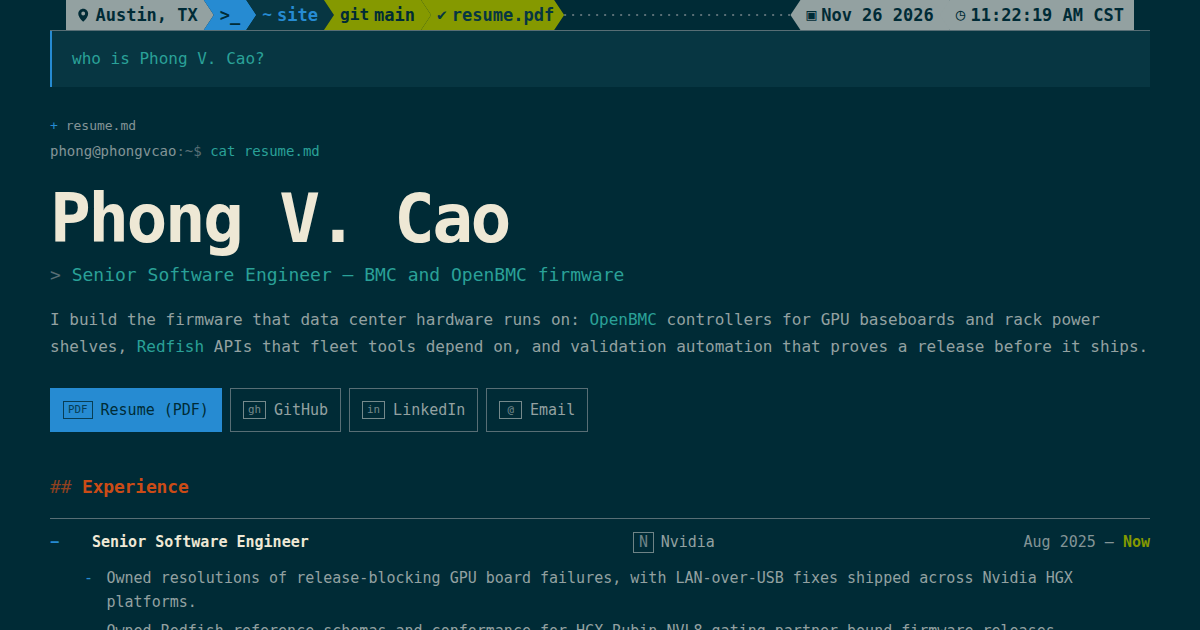
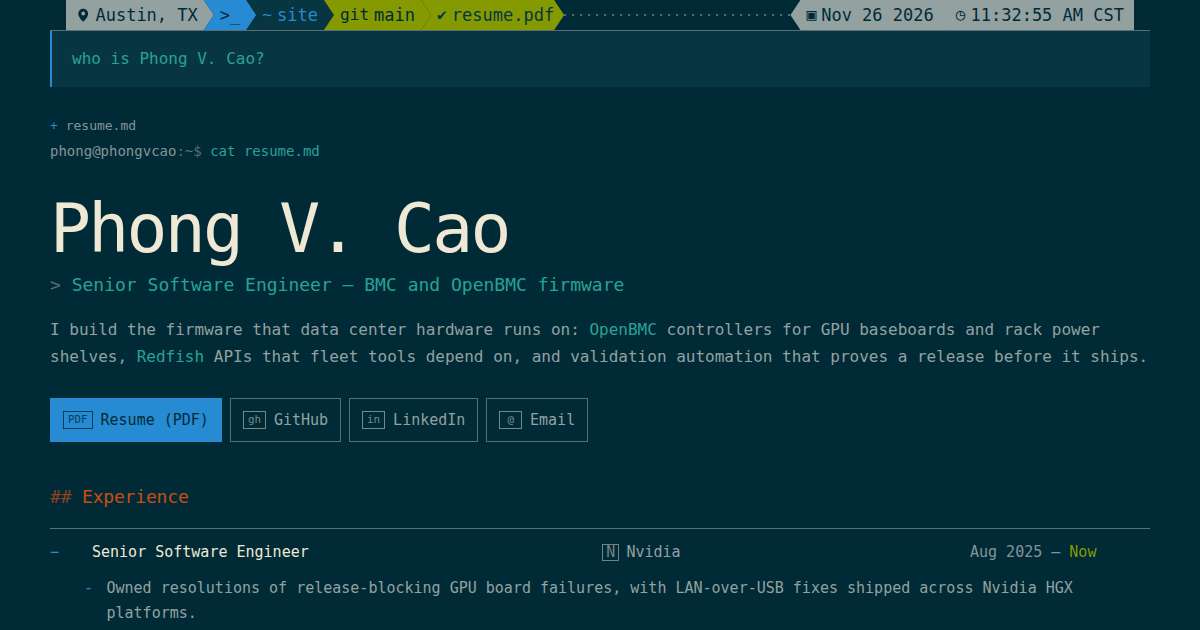
site: plain skills, block cursor, aligned rows, smooth scanner
- Skills lists plain text, no links and no new tabs
- Model line drops the provider name
- Cursor is a full-cell block sized in em, not the half-block glyph
- Experience rows share a fixed date column, so badges and dates line up
- Scanner glides over 3.2 s with short holds instead of 80 ms cell jumps
- Page renders in DejaVuSansM Nerd Font, with 20 KB woff2 subsets for machines without it

diff --git a/index.html b/index.html
@@ -103,7 +103,7 @@
       <p class="tool-line"><span aria-hidden="true">+ </span>resume.md</p>
       <p class="command-line"><span class="host">phong@phongvcao</span><span class="dim">:~$</span> <span class="cmd">cat resume.md</span></p>
 
-      <h1>Phong V. Cao<span class="cursor" aria-hidden="true">▌</span></h1>
+      <h1>Phong V. Cao<span class="cursor" aria-hidden="true"></span></h1>
       <p class="role"><span class="mark" aria-hidden="true">&gt; </span>Senior Software Engineer — BMC and OpenBMC firmware</p>
       <p class="intro">I build the firmware that data center hardware runs on: <a class="term-link" href="https://openbmc.org/" target="_blank" rel="noopener"><code>OpenBMC</code></a> controllers for GPU baseboards and rack power shelves, <a class="term-link" href="https://www.dmtf.org/standards/redfish" target="_blank" rel="noopener"><code>Redfish</code></a> APIs that fleet tools depend on, and validation automation that proves a release before it ships.</p>
 
@@ -265,23 +265,23 @@
           </div>
           <div class="skill-row">
             <dt>Firmware</dt>
-            <dd><a class="term-link" href="https://openbmc.org/" target="_blank" rel="noopener"><code>OpenBMC</code></a> (<code>bmcweb</code>, <code>entity-manager</code>, <code>sdbusplus</code>), Embedded Linux, Linux Drivers, <code>U-Boot</code>, <code>Yocto</code>, <code>BitBake</code></dd>
+            <dd><code>OpenBMC</code> (<code>bmcweb</code>, <code>entity-manager</code>, <code>sdbusplus</code>), Embedded Linux, Linux Drivers, <code>U-Boot</code>, <code>Yocto</code>, <code>BitBake</code></dd>
           </div>
           <div class="skill-row">
             <dt>Protocols</dt>
-            <dd><a class="term-link" href="https://www.dmtf.org/standards/redfish" target="_blank" rel="noopener">DMTF Redfish</a> (CSDL, JSON Schema, Service Validator), <code>MCTP</code>, <code>PLDM</code>, <code>SPDM</code>, <code>IPMI</code>, <code>USB</code>, <code>PCIe</code>, <code>I2C</code></dd>
+            <dd>DMTF Redfish (CSDL, JSON Schema, Service Validator), <code>MCTP</code>, <code>PLDM</code>, <code>SPDM</code>, <code>IPMI</code>, <code>USB</code>, <code>PCIe</code>, <code>I2C</code></dd>
           </div>
           <div class="skill-row">
             <dt>Validation</dt>
-            <dd><code>pytest</code>, <code>Playwright</code>, <a class="term-link" href="https://www.qemu.org/" target="_blank" rel="noopener"><code>QEMU</code></a> (ASPEED AST2600), board bring-up, DMTF validator runs, soak tests</dd>
+            <dd><code>pytest</code>, <code>Playwright</code>, <code>QEMU</code> (ASPEED AST2600), board bring-up, DMTF validator runs, soak tests</dd>
           </div>
           <div class="skill-row">
             <dt>Backend</dt>
-            <dd><a class="term-link" href="https://fastapi.tiangolo.com/" target="_blank" rel="noopener"><code>FastAPI</code></a>, <a class="term-link" href="https://www.docker.com/" target="_blank" rel="noopener"><code>Docker</code></a>, <code>Jenkins</code>, <code>GitLab</code>, <a class="term-link" href="https://kafka.apache.org/" target="_blank" rel="noopener"><code>Kafka</code></a>, <a class="term-link" href="https://cloud.google.com/spanner" target="_blank" rel="noopener"><code>Spanner</code></a>, <a class="term-link" href="https://kubernetes.io/" target="_blank" rel="noopener"><code>Kubernetes</code></a>, Claude, Codex, DeepSeek, AI Agents</dd>
+            <dd><code>FastAPI</code>, <code>Docker</code>, <code>Jenkins</code>, <code>GitLab</code>, <code>Kafka</code>, <code>Spanner</code>, <code>Kubernetes</code>, Claude, Codex, DeepSeek, AI Agents</dd>
           </div>
           <div class="skill-row">
             <dt>Hardware</dt>
-            <dd><a class="term-link" href="https://www.nvidia.com/en-us/data-center/hgx/" target="_blank" rel="noopener">Nvidia HGX GPU Baseboards</a>, Rack Power Shelf, ASPEED AST2600 BMC, Broadcom Tomahawk/Trident ASICs</dd>
+            <dd>Nvidia HGX GPU Baseboards, Rack Power Shelf, ASPEED AST2600 BMC, Broadcom Tomahawk/Trident ASICs</dd>
           </div>
         </dl>
       </section>
@@ -306,9 +306,9 @@
       <div class="prompt-box">
         <a class="prompt-link" href="mailto:phongvcao@gmail.com">
           <span>phongvcao@gmail.com</span>
-          <span class="cursor cursor-small" aria-hidden="true">▌</span>
+          <span class="cursor cursor-small" aria-hidden="true"></span>
         </a>
-        <p class="prompt-meta"><span class="model-agent">Ultracode</span> <span class="model-auto">auto</span> <span class="model-dim">·</span> <span class="model-name">DeepSeek V4.1 Flash 1017 (Ollama)</span> <span class="model-provider">Ollama Cloud</span> <span class="model-dim">·</span> <span class="model-max">max</span></p>
+        <p class="prompt-meta"><span class="model-agent">Ultracode</span> <span class="model-auto">auto</span> <span class="model-dim">·</span> <span class="model-name">DeepSeek V4.1 Flash 1017</span> <span class="model-dim">·</span> <span class="model-max">max</span></p>
       </div>
       <div class="prompt-status" aria-label="Session status">
         <span class="status-left"><span class="status-bar" aria-hidden="true"><span class="scan scan-fwd"></span><span class="scan scan-back"></span></span><span class="status-hint"><span class="status-key">esc</span> interrupt</span></span>

diff --git a/styles.css b/styles.css
@@ -1,3 +1,21 @@
+@font-face {
+  font-family: "Site Mono";
+  font-style: normal;
+  font-weight: 400;
+  font-display: swap;
+  src: local("DejaVuSansM Nerd Font"), local("DejaVuSansMono Nerd Font"),
+    url("assets/dejavu-sans-mono-regular.woff2") format("woff2");
+}
+
+@font-face {
+  font-family: "Site Mono";
+  font-style: normal;
+  font-weight: 700;
+  font-display: swap;
+  src: local("DejaVuSansM Nerd Font"), local("DejaVuSansMono Nerd Font"),
+    url("assets/dejavu-sans-mono-bold.woff2") format("woff2");
+}
+
 :root {
   --base03: #002b36;
   --base02: #073642;
@@ -33,7 +51,7 @@
   --prompt-h: 92px;
   --status-h: 29px;
 
-  --mono: "DejaVuSansMono Nerd Font", "DejaVu Sans Mono Nerd Font", "DejaVu Sans Mono", ui-monospace, SFMono-Regular, "SF Mono", Menlo, Monaco, Consolas, "Liberation Mono", "Courier New", monospace;
+  --mono: "Site Mono", "DejaVuSansM Nerd Font", "DejaVuSansM Nerd Font Mono", "DejaVuSansMono Nerd Font", "DejaVuSansMono Nerd Font Mono", "DejaVu Sans Mono", ui-monospace, SFMono-Regular, "SF Mono", Menlo, Monaco, Consolas, "Liberation Mono", "Courier New", monospace;
 }
 
 *,
@@ -136,8 +154,11 @@ h1 {
 
 .cursor {
   display: inline-block;
-  margin-left: 0.08em;
-  color: inherit;
+  width: 0.62em;
+  height: 1.15em;
+  margin-left: 0.06em;
+  vertical-align: -0.15em;
+  background: currentColor;
   animation: blink 1.15s steps(2, start) infinite;
 }
 
@@ -327,8 +348,8 @@ code {
   display: inline-flex;
   align-items: center;
   justify-content: center;
-  width: 1.35em;
-  height: 1.35em;
+  width: 1.15em;
+  height: 1.15em;
   border: 1px solid currentColor;
   font-size: 1em;
   line-height: 1;
@@ -387,7 +408,7 @@ code {
 
 .exp-summary {
   display: grid;
-  grid-template-columns: 2em minmax(0, 1.4fr) minmax(0, 1fr) auto;
+  grid-template-columns: 2em minmax(0, 1.4fr) minmax(0, 1fr) 12em;
   align-items: baseline;
   gap: 12px;
   padding: 11px 0;
@@ -429,7 +450,7 @@ code {
 
 .exp-company {
   display: inline-flex;
-  align-items: baseline;
+  align-items: center;
   gap: 7px;
   color: var(--base1);
 }
@@ -702,8 +723,8 @@ code {
   height: 1em;
   margin-right: 1ch;
   overflow: hidden;
-  background-image: linear-gradient(90deg, rgb(38 139 210 / 0.5) 0 0.62ch, transparent 0.62ch 1ch);
-  background-size: 1ch 0.62em;
+  background-image: radial-gradient(circle, rgb(38 139 210 / 0.45) 0.07em, transparent 0.075em);
+  background-size: 1ch 1em;
   background-position: 0 50%;
   background-repeat: repeat-x;
 }
@@ -714,11 +735,11 @@ code {
   background-repeat: no-repeat;
   background-size: 8ch 100%;
   -webkit-mask-image: linear-gradient(90deg, #000 0 0.62ch, transparent 0.62ch 1ch);
-  -webkit-mask-size: 1ch 0.62em;
+  -webkit-mask-size: 1ch 0.55em;
   -webkit-mask-position: 0 50%;
   -webkit-mask-repeat: repeat-x;
   mask-image: linear-gradient(90deg, #000 0 0.62ch, transparent 0.62ch 1ch);
-  mask-size: 1ch 0.62em;
+  mask-size: 1ch 0.55em;
   mask-position: 0 50%;
   mask-repeat: repeat-x;
 }
@@ -726,30 +747,23 @@ code {
 .scan-fwd {
   background-image: linear-gradient(
     90deg,
-    transparent 0 1ch,
-    rgb(38 139 210 / 0.1) 1ch 2ch,
-    rgb(38 139 210 / 0.2) 2ch 3ch,
-    rgb(38 139 210 / 0.36) 3ch 4ch,
-    rgb(38 139 210 / 0.55) 4ch 5ch,
-    rgb(38 139 210 / 0.78) 5ch 6ch,
-    var(--blue) 6ch 7ch,
-    transparent 7ch 8ch
+    transparent 0 5ch,
+    rgb(38 139 210 / 0.22) 5ch 6ch,
+    rgb(38 139 210 / 0.55) 6ch 7ch,
+    var(--blue) 7ch 8ch
   );
-  animation: scan-fwd 4.4s steps(1) infinite;
+  animation: scan-fwd 3.2s linear infinite;
 }
 
 .scan-back {
   background-image: linear-gradient(
     90deg,
     var(--blue) 0 1ch,
-    rgb(38 139 210 / 0.78) 1ch 2ch,
-    rgb(38 139 210 / 0.55) 2ch 3ch,
-    rgb(38 139 210 / 0.36) 3ch 4ch,
-    rgb(38 139 210 / 0.2) 4ch 5ch,
-    rgb(38 139 210 / 0.1) 5ch 6ch,
-    transparent 6ch 8ch
+    rgb(38 139 210 / 0.55) 1ch 2ch,
+    rgb(38 139 210 / 0.22) 2ch 3ch,
+    transparent 3ch 8ch
   );
-  animation: scan-back 4.4s steps(1) infinite;
+  animation: scan-back 3.2s linear infinite;
 }
 
 .status-copy {
@@ -772,15 +786,17 @@ code {
 @keyframes scan-fwd {
   0% {
     transform: translateX(-7ch);
-    animation-timing-function: steps(8, jump-none);
   }
-  14.81% {
+  12% {
+    transform: translateX(-7ch);
+  }
+  46% {
     transform: translateX(0);
   }
-  31.48% {
+  54% {
     transform: translateX(0);
   }
-  31.49% {
+  54.01% {
     transform: translateX(8ch);
   }
   100% {
@@ -792,14 +808,13 @@ code {
   0% {
     transform: translateX(-8ch);
   }
-  31.48% {
+  54% {
     transform: translateX(-8ch);
   }
-  31.49% {
+  54.01% {
     transform: translateX(7ch);
-    animation-timing-function: steps(8, jump-none);
   }
-  46.3% {
+  88% {
     transform: translateX(0);
   }
   100% {
@@ -947,7 +962,7 @@ code {
 @media (max-width: 720px) {
   :root {
     --topbar-h: 57px;
-    --prompt-h: 111px;
+    --prompt-h: 89px;
     --status-h: 47px;
   }
 
@@ -1118,6 +1133,12 @@ code {
 
   .pl-right .pl-seg:last-child {
     padding-right: 8px;
+  }
+}
+
+@media (max-width: 340px) {
+  :root {
+    --prompt-h: 111px;
   }
 }
 

diff --git a/README.md b/README.md
@@ -1,3 +1,13 @@
 # phongvcao.github.io
 
 Static personal site for Phong V. Cao, served by GitHub Pages at https://phongvcao.com. The page is a hand-written OpenCode/tmux-style TUI in the 16-color ANSI Solarized Dark palette, with Vim markdown colors, expandable experience rows, and a live Austin clock. Edit `index.html` for copy, metadata, and structured data; `styles.css` for the visual system; and replace `assets/phong-cao-resume.pdf` to update the resume. Regenerate `assets/og-image.png` after major visual changes, update `sitemap.xml` and the JSON-LD `dateModified` when the page changes, then commit to `main`; GitHub Pages builds automatically.
+
+The whole page renders in DejaVu Sans Mono. `@font-face` loads the local Nerd Font build when the machine has it and otherwise downloads the two subset files in `assets/` (about 20 KB each, ASCII, Latin-1, general punctuation, block elements, geometric shapes, dingbats). To rebuild them from `~/.local/share/fonts/NerdFonts/DejaVuSansMNerdFont-{Regular,Bold}.ttf`:
+
+```bash
+UNI="U+0020-007E,U+00A0-00FF,U+2010-2027,U+2580-259F,U+25A0-25FF,U+2713-2714"
+uv run --with fonttools --with brotli pyftsubset DejaVuSansMNerdFont-Regular.ttf \
+  --output-file=assets/dejavu-sans-mono-regular.woff2 --flavor=woff2 --unicodes="$UNI"
+uv run --with fonttools --with brotli pyftsubset DejaVuSansMNerdFont-Bold.ttf \
+  --output-file=assets/dejavu-sans-mono-bold.woff2 --flavor=woff2 --unicodes="$UNI"
+```
